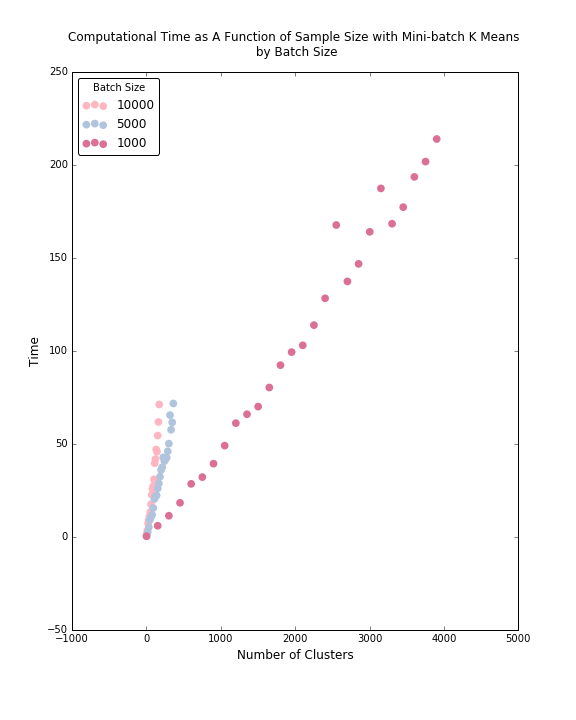
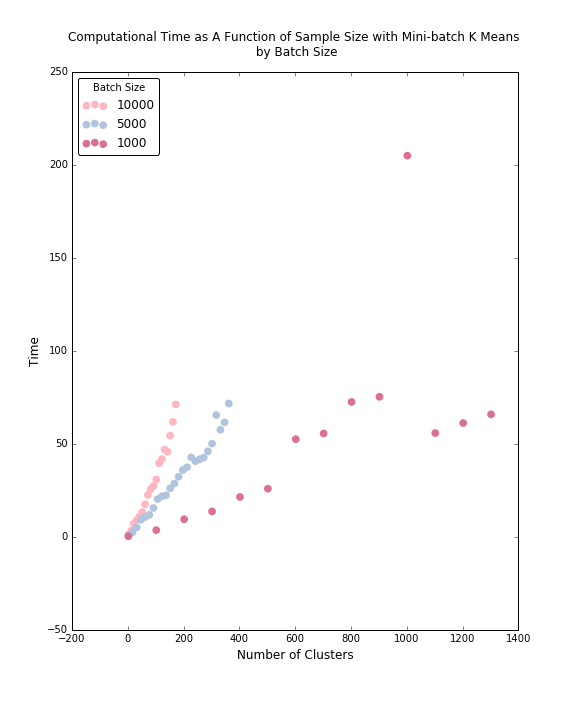
update image

diff --git a/Assignment1.md b/Assignment1.md
@@ -105,11 +105,11 @@ Results follow:
 
 | Percentage | `batch_size` | `k_max`                     |
 |:----------:|:------------:|:---------------------------:|
-|1%          |1000          |3950                         |
+|1%          |1000          |1350                         |
 |5%          |5000          |365                          |
 |10%         |10000         |175                          |
 
-
+One reason for the performance bottleneck caused by `k_max` is that cluster possibilities increase exponentially as number of clusters goes up.
 
 #### Find eps_100 that resultes in 100 clusters with MinPts =100 as well as the corresponding processing time.
 eps_100 = 0.001 (0.002 and 0.003 also produces 100 clusters)
@@ -178,9 +178,8 @@ Nonetheless, lower `batch_size` allows larger `k_max` (largest number of cluster
 
 [Figure5]: https://raw.githubusercontent.com/YiyanGe/CEE-263N-Scalable-Spatial-Analytics/master/images/Assignment%201/part21MinibatchKmeansCluster.png
 
-Figure on the left shows roughly 
-how `batch_size` has an impact on processing time. One noticeable pattern is that the linear relationship between processing time and sample size is
-much less stable as `batch_size` decreases.  
+The follwoing adopts even lower `batch_size` to speed up process. Figure on the left shows roughly how `batch_size` has an impact on processing time. One noticeable pattern is that the linear relationship between processing time and sample size is
+much less stable as `batch_size` decreases. Also, with smaller sample sizes, smaller `batch_size` takes longer processing time.
 
 ![Computational time as a function of sample size for a fixed k=100 with MiniBatchKMeans][Figure3]
 
